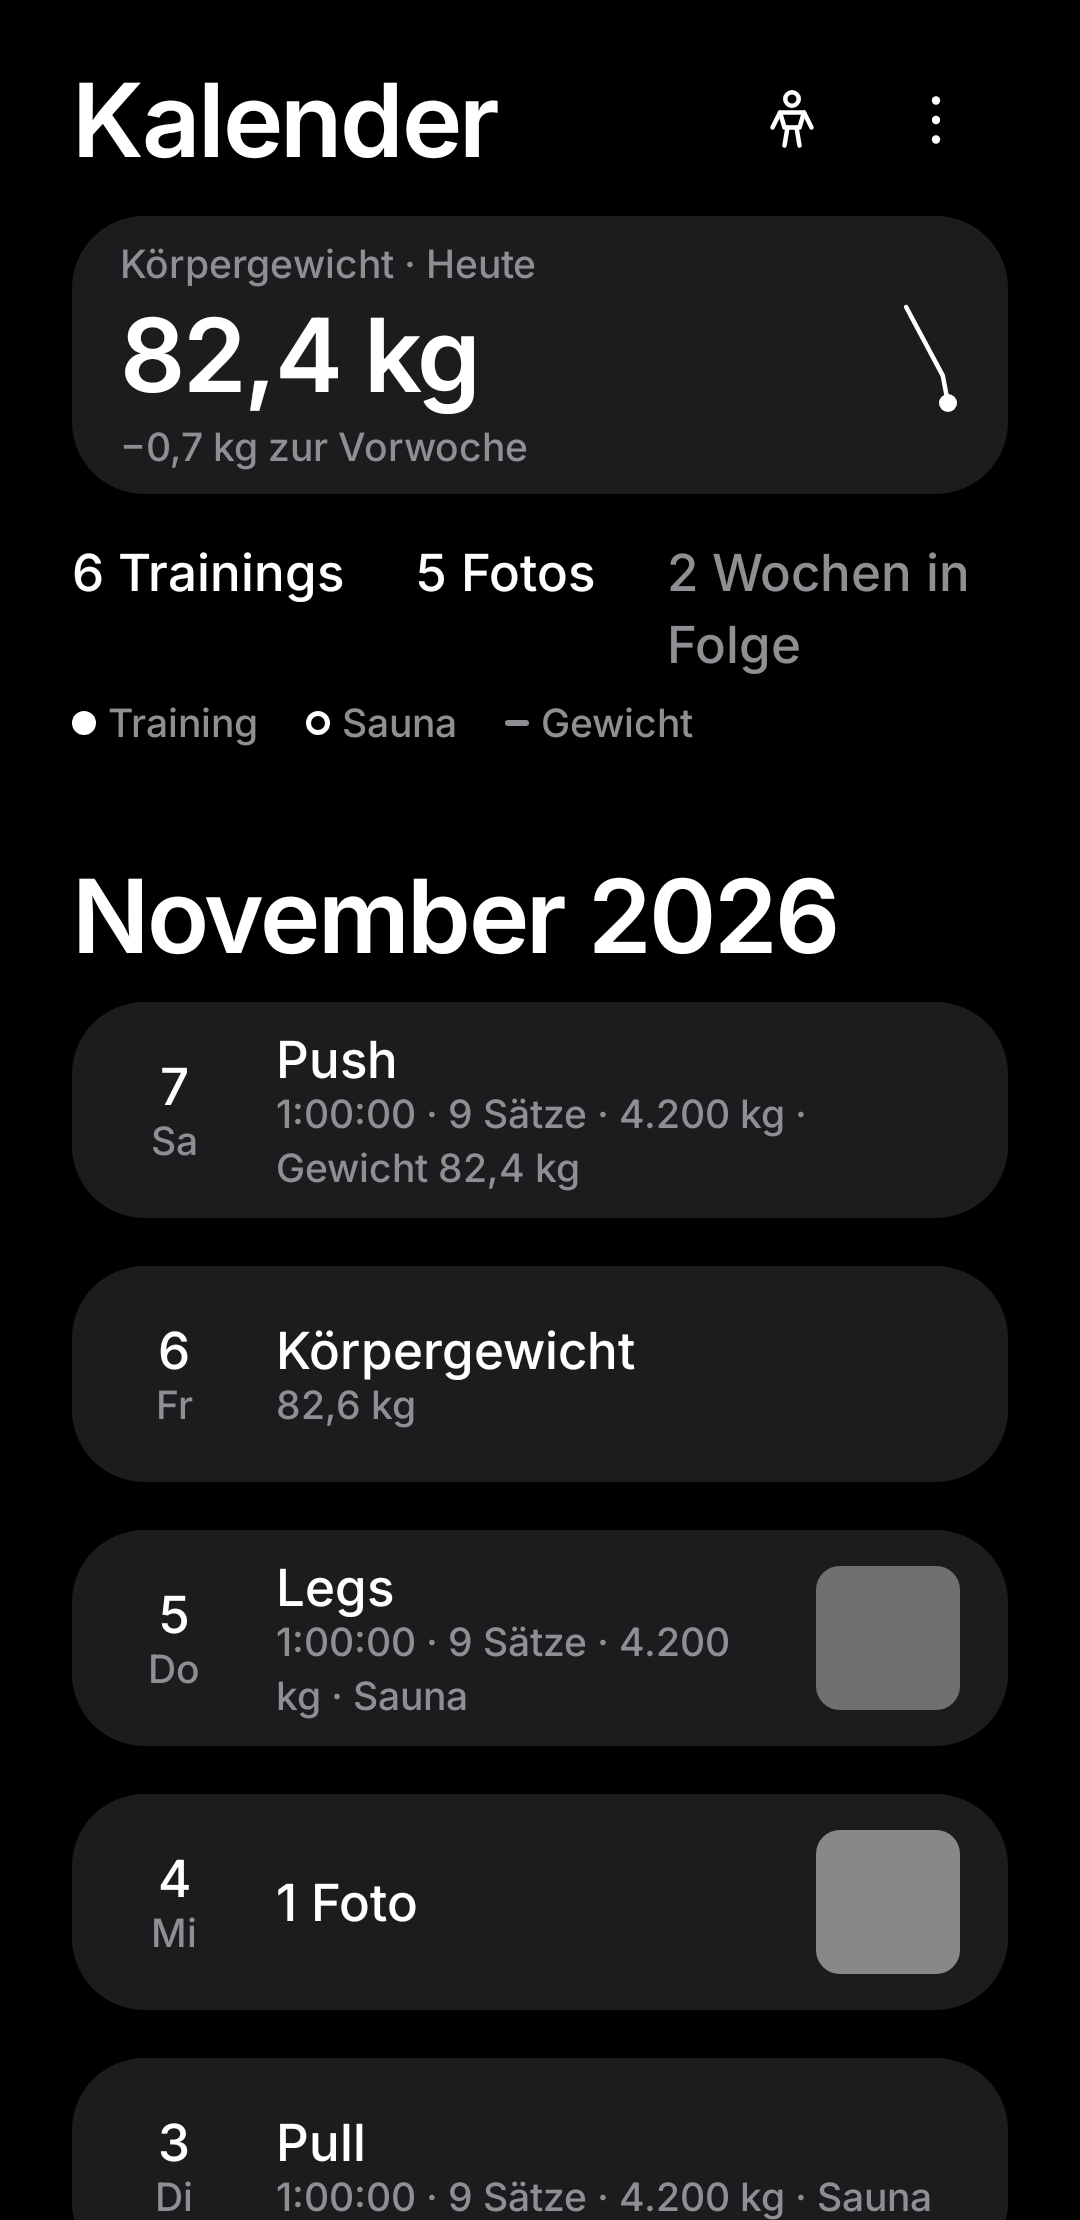
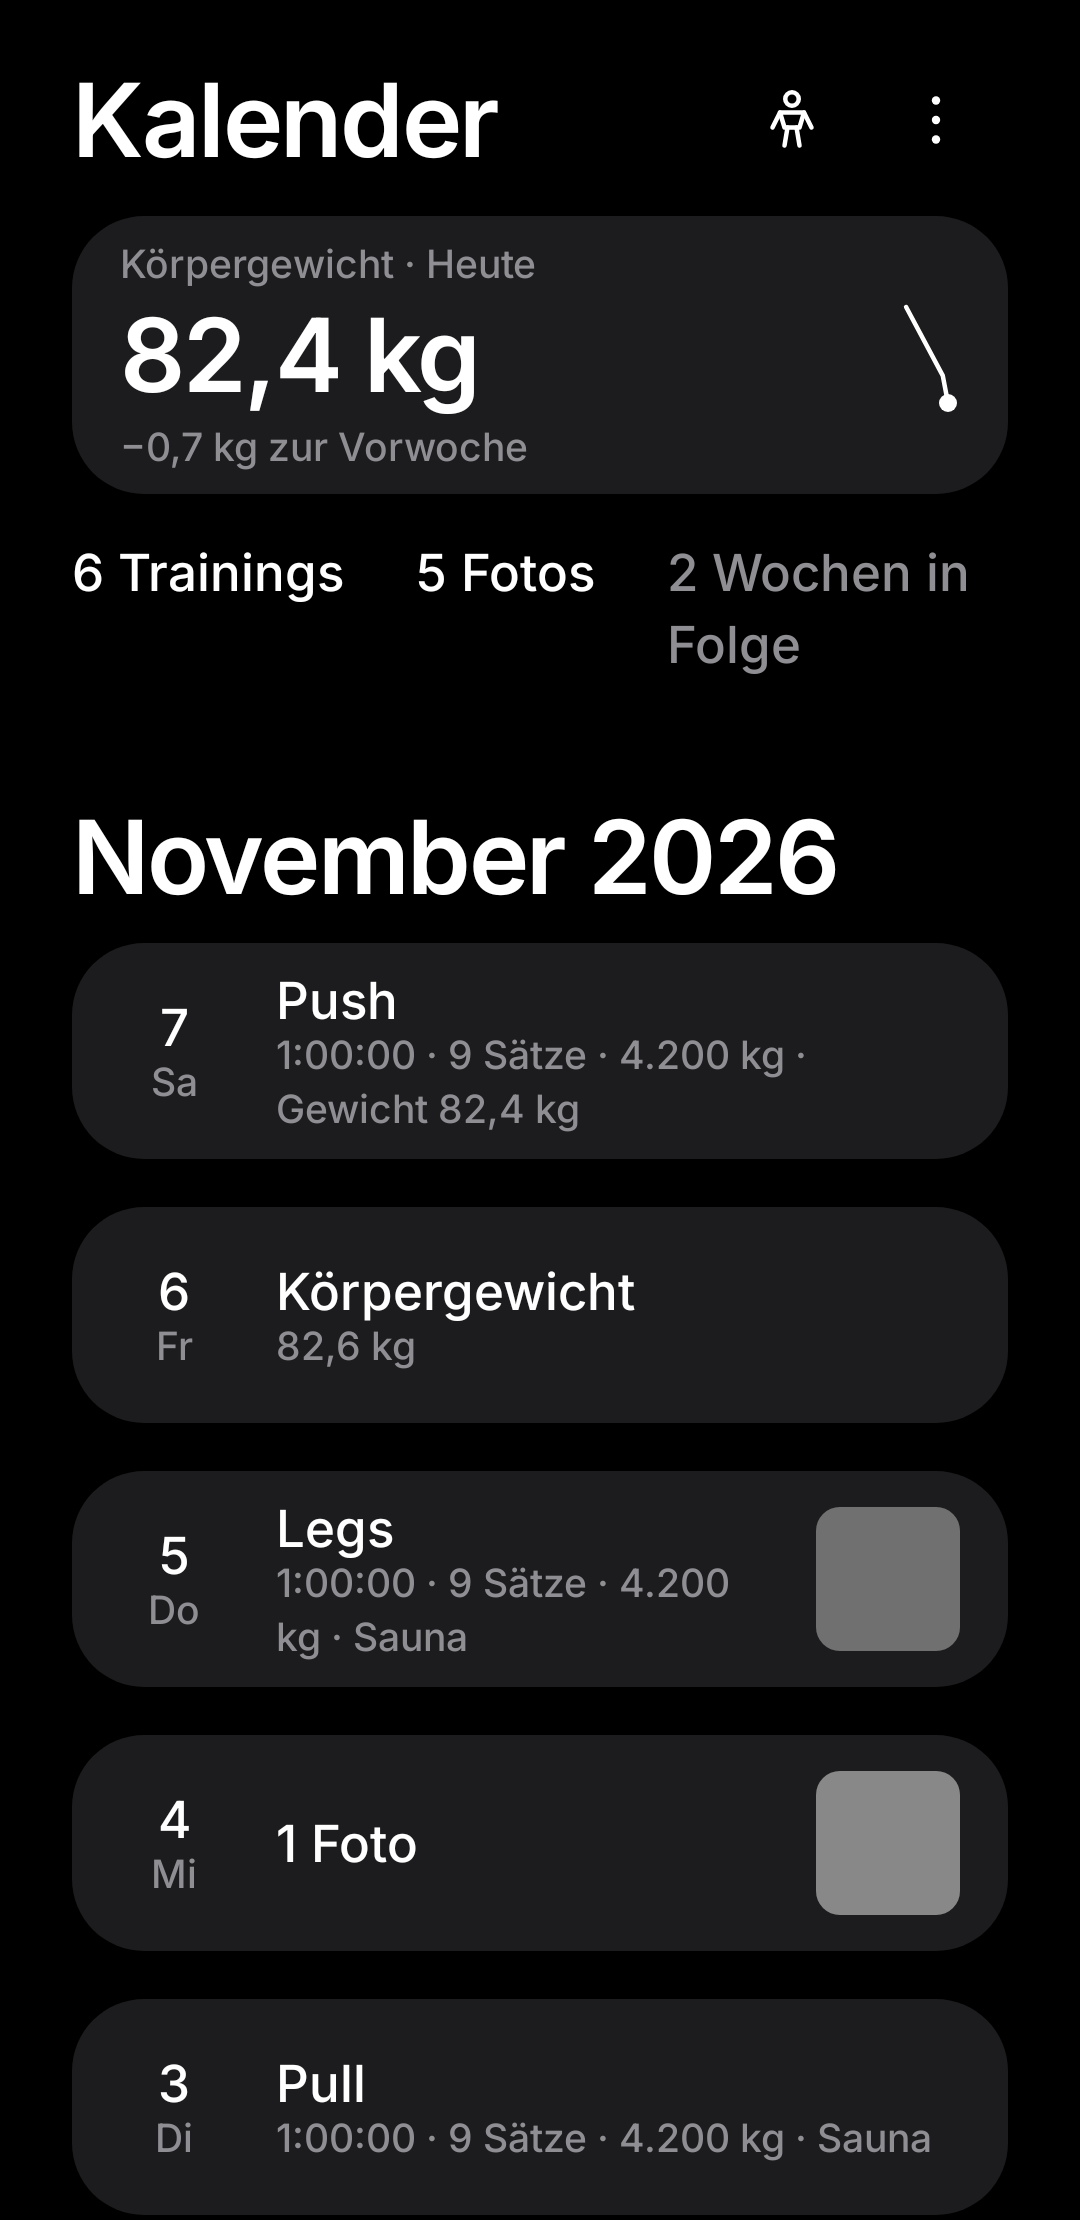
Gegencheck Teil 2: bester Satz nach Messart, Legende nur im Raster
Claude-Session: https://claude.ai/code/session_01PBv5TsgrTQPAJDxGZH1M2o

Changed region(s): [[0.0611, 0.3108, 0.9472, 1.0], [0.0611, 0.3108, 0.2444, 0.3419], [0.275, 0.3108, 0.4278, 0.3419]]

diff --git a/shared/src/commonMain/kotlin/app/overfit/ui/history/HistoryScreens.kt b/shared/src/commonMain/kotlin/app/overfit/ui/history/HistoryScreens.kt
@@ -109,7 +109,13 @@ internal fun TrainingRow(row: HistoryRow, unit: WeightUnit, language: Language, 
                 Spacer(Modifier.height(Space.s))
                 exercises.forEach { e ->
                     val done = e.sets.filter { it.completed }
-                    val best = done.maxWithOrNull(compareBy<app.overfit.domain.WorkoutSet>({ it.actual.weightKg ?: 0.0 }, { it.actual.reps ?: 0 }, { it.actual.durationSec ?: 0 }))
+                    // Best set by what the exercise measures: weight first (only if it uses weight), then reps, then time.
+                    val type = e.exercise.trackingType
+                    val best = done.maxWithOrNull(compareBy<app.overfit.domain.WorkoutSet>(
+                        { if (type.usesWeight) it.actual.weightKg ?: 0.0 else 0.0 },
+                        { if (type.usesReps) it.actual.reps ?: 0 else 0 },
+                        { if (type.usesTime) it.actual.durationSec ?: 0 else 0 },
+                    ))
                     val bestText = best?.let { WorkoutFormat.values(it.actual, e.exercise.trackingType, unit, language, t) }.orEmpty()
                     val right = if (done.isEmpty()) h.notDone else listOf(h.setCount(done.size), bestText).filter { it.isNotEmpty() }.joinToString(" · ")
                     Row(Modifier.fillMaxWidth().padding(vertical = 3.dp), verticalAlignment = Alignment.CenterVertically) {

diff --git a/shared/src/commonMain/kotlin/app/overfit/ui/photos/PhotoScreens.kt b/shared/src/commonMain/kotlin/app/overfit/ui/photos/PhotoScreens.kt
@@ -198,7 +198,8 @@ fun PhotosScreen(
             DiaryStats(historyList.size, photoList.size, streak)
             val anySauna = days.values.any { it.sauna }
             val anyWeight = days.values.any { it.weightKg != null }
-            if (anySauna || anyWeight) DiaryLegend(anySauna, anyWeight)
+            // The legend explains the grid's markers; the list shows no markers.
+            if (!asList && (anySauna || anyWeight)) DiaryLegend(anySauna, anyWeight)
             Spacer(Modifier.height(Space.s))
             if (!asList) {
                 WeekdayRow(weekStart)
@@ -337,7 +338,6 @@ private fun WeekdayRow(weekStart: kotlinx.datetime.DayOfWeek) {
 }
 
 private val CELL_GAP = 4.dp
-/** Width : height of a calendar day. */
 /** Height of a cell besides its square tile: number circle, gaps, marker row and the 2-dp padding top and bottom. */
 private val CELL_CHROME = DAY_NUMBER_SIZE + 2.dp + MARKER_GAP + MARKER_SIZE + 4.dp
 
